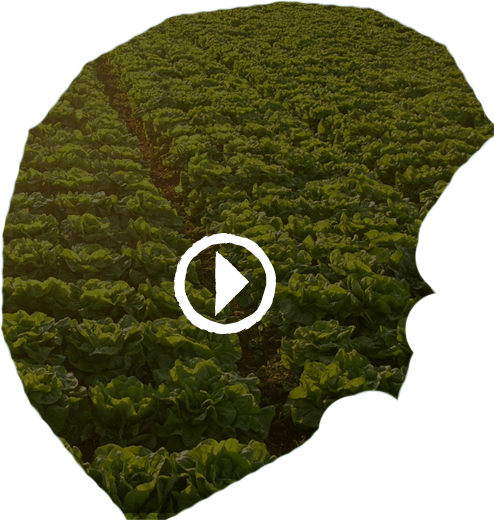
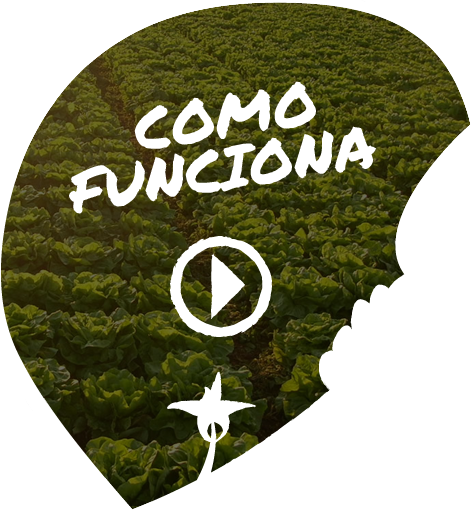
home

Changed region(s): [[0.0, 0.0, 1.0, 1.0]]

diff --git a/assets/css/main.css b/assets/css/main.css
@@ -1,1 +1,1 @@
-@import url(http://fonts.googleapis.com/css?family=Maven+Pro:400,500,700,900);html,body,div,span,applet,object,iframe,h1,h2,h3,h4,h5,h6,p,blockquote,pre,a,abbr,acronym,address,big,cite,code,del,dfn,em,img,ins,kbd,q,s,samp,small,strike,strong,sub,sup,tt,var,b,u,i,center,dl,dt,dd,ol,ul,li,fieldset,form,label,legend,table,caption,tbody,tfoot,thead,tr,th,td,article,aside,canvas,details,embed,figure,figcaption,footer,header,hgroup,menu,nav,output,ruby,section,summary,time,mark,audio,video{margin:0;padding:0;border:0;font:inherit;font-size:100%;vertical-align:baseline}html{line-height:1}ol,ul{list-style:none}table{border-collapse:collapse;border-spacing:0}caption,th,td{text-align:left;font-weight:normal;vertical-align:middle}q,blockquote{quotes:none}q:before,q:after,blockquote:before,blockquote:after{content:"";content:none}a img{border:none}article,aside,details,figcaption,figure,footer,header,hgroup,menu,nav,section,summary{display:block}@font-face{font-family:'permanent_markerregular';src:url("permanentmarker.eot");src:url("permanentmarker.eot?#iefix") format("embedded-opentype"),url("permanentmarker.woff") format("woff"),url("permanentmarker.ttf") format("truetype"),url("permanentmarker.svg#permanent_markerregular") format("svg");font-weight:normal;font-style:normal}@font-face{font-family:'sophieregular';src:url("sophie.eot");src:url("sophie.eot?#iefix") format("embedded-opentype"),url("sophie.woff") format("woff"),url("sophie.ttf") format("truetype"),url("sophie.svg#sophieregular") format("svg");font-weight:normal;font-style:normal}body{line-height:1.4;font-family:'Maven Pro', sans-serif;color:#444;margin:0;padding:0}#site{min-height:100%;width:1000px;margin:0 auto;position:relative}p{margin:0;font-size:0.83em}img{max-width:100%}h1,h2,h3,h4,h5,h6{font-weight:bold;margin:0 0 10px 0}h1{font-size:3.0em}h2{font-size:2.6em}h3{font-size:2.2em}h4{font-size:1.8em}h5{font-size:1.4em}h6{font-size:1.1em}a{text-decoration:none;color:#444}a:visited{color:#444}a:hover{color:#444}a:focus{color:#444}a:active{color:#444}.centralize{text-align:center}.hide_text{text-indent:-9999px;display:block}.nav li{display:inline-block}.nav b{font-weight:bold}label.error{color:#ff0000;font-size:0.7em;display:block;height:14px;margin-bottom:-20px}.l-container{max-width:960px;margin:0 auto}.l-row:before,.l-row:after,.cf:before,.cf:after{content:'';display:table}.l-row:after,.cf:after{clear:both}[class*=l-col]{-webkit-box-sizing:border-box;-moz-box-sizing:border-box;box-sizing:border-box;float:left;padding:5px 10px}.l-col1{width:8.33333%}.l-col2{width:16.66667%}.l-col3{width:25.0%}.l-col4{width:33.33333%}.l-col5{width:41.66667%}.l-col6{width:50.0%}.l-col7{width:58.33333%}.l-col8{width:66.66667%}.l-col9{width:75.0%}.l-col10{width:83.33333%}.l-col11{width:91.66667%}.l-col12{width:100.0%}.l-header .l-container{height:160px;text-align:center}.l-header .l-container .logo-interna{margin-top:40px}.l-main{position:relative}.l-login{width:960px;margin:0 auto}.l-login h2{font-family:'Permanent Marker', sans-serif}.l-login h1{margin:0 auto;text-align:center;font-size:2em}.l-login .bt-saiba-mais{bottom:50px;position:absolute;text-align:center;cursor:pointer;width:100px;margin-left:-50px;left:50%}.l-login #accordion{width:260px;margin:10px auto;text-align:center}.l-login p{text-align:center}.l-login .btcadastrar{cursor:pointer}.l-login .beneficios{margin:210px auto 0}.l-login .beneficios li{font-family:'Sophie', sans-serif;width:170px;-webkit-transform:rotate(-12deg);-moz-transform:rotate(-12deg);-ms-transform:rotate(-12deg);display:block;margin:0px 10px;float:left;text-align:center;font-size:1.45em;color:#58595b;line-height:24px}.l-login .beneficios h2{color:#ff921e;font-size:5.7em;-webkit-transform:rotate(-12deg);-moz-transform:rotate(-12deg);-ms-transform:rotate(-12deg);margin-left:100px}.l-login .beneficios ol{margin:40px 0 0 45px}.l-login .como-funciona{clear:both}body.index{background:url(../img/template/bg-home.png) center top no-repeat}.l-cadastrarperfil{width:960px;margin:0 auto;text-align:center}.l-cadastrarperfil form{margin:0 auto}.l-cadastrarperfil p{width:400px;margin:0 auto;line-height:1.4em}.l-cadastrarperfil input[type="text"]{width:250px}.l-cadastrarperfil header{margin-bottom:10px}.l-cadastrarperfil form p{margin-bottom:7px}.l-cadastrarperfil #map-canvas{margin-bottom:20px}.l-footer{height:30px;position:absolute;background-color:#ccc;width:1000px;padding-top:10px;bottom:0px;left:50%;margin-left:-500px}.l-footer .l-footer-bottom{text-align:center;margin:0 auto}.l-footer p{margin:2px 0}.l-perfil .fotoperfil{margin:10px 10px 0 0}.l-perfil #perfil-content{width:700px}.l-perfil p span{font-weight:bold;width:90px;text-align:left;margin-right:10px;display:block;float:left}.l-produtores #cultivo{width:290px}.l-produtores form{width:300px}.l-produtores #cidade{width:230px}.l-produtores #resultadoprodutores li img{margin:0 10px 0 0;float:left;display:block}.l-produtores #resultadoprodutores li{display:block;width:350px;height:150px;float:left;margin:10px 5px 0}.l-duvida-resultado .conteudoDuvidasResultado li{display:block;float:left;margin:5px 10px}.l-duvida-resultado .postnome{font-weight:bold}.l-duvida-resultado ul{overflow:auto}.l-duvida-resultado .bt-saibamais{display:block;float:right}.l-duvida-resultado #cadastrarDuvida{text-align:center}.l-duvida-resultado #cadastrarDuvida a{display:block;width:200px;height:15px;padding:7px;text-align:center;background-color:blue;margin:10px auto;font-size:0.75em;color:#fff}.l-duvida-resultado #paginacao{margin:5px auto;text-align:center;width:75px}.l-duvida-resultado #paginacao ul li{display:block;float:left;padding:5px}.l-duvida-exibicao .galeria-imagens{margin:5px 6px}.l-duvida-exibicao .comentario{padding:10px 0;border-bottom:dashed 1px grey;margin:5px 0}.l-duvida-exibicao p.titulo{font-size:1em;font-weight:bold}.l-painel ul#abas{height:40px;overflow:auto;border-bottom:1px solid black}.l-painel ul#abas li a{display:block;float:left;padding:5px;border:1px solid red;cursor:pointer}.l-painel #resultados ul{overflow:auto}.l-painel #resultados li{width:25%;display:block;float:left}.l-painel #notificacoes{overflow:auto;margin:10px 0}.l-painel #notificacoes li{width:31%;margin-right:2%;display:block;float:left}.l-painel #notificacoes li img{margin-right:5px}.l-painel #duvidas-recentes li{width:220px;display:block;float:left;margin:5px 10px}.l-painel #duvidas-recentes .postnome{font-weight:bold}.l-painel #duvidas-recentes ul{overflow:auto}.l-painel #duvidas-recentes .bt-saibamais{display:block;float:right}.l-duvida-inicial form{width:500px;margin:5px auto}.l-duvida-inicial input[type="text"]{width:400px;margin-right:10px}.l-duvida-inicial #conteudoDuvidas li{width:200px;display:block;float:left;margin:5px 10px}.l-duvida-inicial .postnome{font-weight:bold}.l-duvida-inicial ul{overflow:auto}.l-duvida-inicial .bt-saibamais{display:block;float:right}.l-duvida-inicial #cadastrarDuvida{text-align:center}.l-duvida-inicial #cadastrarDuvida a{display:block;width:200px;height:15px;padding:7px;text-align:center;background-color:blue;margin:10px auto;font-size:0.75em;color:#fff}.l-duvida-inicial #paginacao{margin:5px auto;text-align:center;width:75px}.l-duvida-inicial #paginacao ul li{display:block;float:left;padding:5px}.l-notificacoes #conteudoNotificacoes{overflow:auto;margin:10px 0}.l-notificacoes #conteudoNotificacoes li{width:31%;margin:1% 2% 1% 0;display:block;float:left}.l-notificacoes #conteudoNotificacoes li img{margin-right:5px}.l-graficos #plantacoes li{display:inline;cursor:pointer;margin:5px}.l-graficos .bt-vermais{display:block;float:right;padding:5px 10px;background-color:#f00}.l-sidebar{-webkit-box-sizing:border-box;-moz-box-sizing:border-box;box-sizing:border-box;height:603px;width:213px;background-image:url('fakepath/../../../assets/img/sprite-sd4e113779e.png');background-position:0 -114px;background-repeat:no-repeat;position:absolute;padding:20px}.l-sidebar .l-sidebar-top{position:relative;padding-top:30px}.l-sidebar .l-sidebar-top .round-img.foto-perfil{width:90px;height:90px;position:absolute;top:-69px;left:38px}.l-sidebar .l-sidebar-top .round-img.foto-perfil img{width:90px;height:90px;border-radius:50%;behavior:url(assets/css/suiting/pie.htc)}.l-sidebar .l-sidebar-top .round-img.foto-perfil::after{content:' ';display:block;position:absolute;top:-13px;left:-14px;height:114px;width:115px;background-image:url('fakepath/../../../assets/img/sprite-sd4e113779e.png');background-position:0 0;background-repeat:no-repeat}.l-sidebar .l-sidebar-top .content-perfil{text-align:center;padding-right:5px;color:#7a7460;font-family:'Sophie', sans-serif;margin-bottom:11px}.l-sidebar .l-sidebar-top .content-perfil .nome-perfil{font-family:'Permanent Marker', sans-serif;text-transform:uppercase;font-size:1.14em;letter-spacing:0.05em}.l-sidebar .l-sidebar-top .content-perfil .fazenda-perfil{font-size:1.30em}.l-sidebar .l-sidebar-top .content-perfil #location{font-size:1.07em;line-height:15px}.l-sidebar .l-sidebar-top .content-perfil #degreesCelsius{line-height:40px;font-size:1.85em}.clima-01d{background-color:#FFFAEA}.clima-01n{background-color:#F3E0FF}.clima-02d{background-color:#DDFAFF}.clima-02n{background-color:#EAE9EE}.clima-03d{background-color:#DBDBDB}.clima-03n{background-color:#DBDBDB}.clima-04d{background-color:#CFCFCF}.clima-04n{background-color:#CFCFCF}.clima-09d{background-color:#757588}.clima-09n{background-color:#757588}.clima-10d{background-color:#CACACA}.clima-10n{background-color:#D3CDD8}.clima-11d{background-color:#CFBABA}.clima-11n{background-color:#DACAD0}.clima-13d{background-color:#fff}.clima-13n{background-color:#fff}.clima-13d{background-color:#DBDBDB}.clima-13n{background-color:#DBDBDB}.l-content{-webkit-box-sizing:border-box;-moz-box-sizing:border-box;box-sizing:border-box;width:783px;padding:0px 40px 0px 40px;margin:0px 0px 0px 213px}/*! Suiting v1.00.0 | (c) 2014, 2014 | http://browserhacks.com/ */
+@import url(http://fonts.googleapis.com/css?family=Maven+Pro:400,500,700,900);html,body,div,span,applet,object,iframe,h1,h2,h3,h4,h5,h6,p,blockquote,pre,a,abbr,acronym,address,big,cite,code,del,dfn,em,img,ins,kbd,q,s,samp,small,strike,strong,sub,sup,tt,var,b,u,i,center,dl,dt,dd,ol,ul,li,fieldset,form,label,legend,table,caption,tbody,tfoot,thead,tr,th,td,article,aside,canvas,details,embed,figure,figcaption,footer,header,hgroup,menu,nav,output,ruby,section,summary,time,mark,audio,video{margin:0;padding:0;border:0;font:inherit;font-size:100%;vertical-align:baseline}html{line-height:1}ol,ul{list-style:none}table{border-collapse:collapse;border-spacing:0}caption,th,td{text-align:left;font-weight:normal;vertical-align:middle}q,blockquote{quotes:none}q:before,q:after,blockquote:before,blockquote:after{content:"";content:none}a img{border:none}article,aside,details,figcaption,figure,footer,header,hgroup,menu,nav,section,summary{display:block}@font-face{font-family:'permanent_markerregular';src:url("permanentmarker.eot");src:url("permanentmarker.eot?#iefix") format("embedded-opentype"),url("permanentmarker.woff") format("woff"),url("permanentmarker.ttf") format("truetype"),url("permanentmarker.svg#permanent_markerregular") format("svg");font-weight:normal;font-style:normal}@font-face{font-family:'sophieregular';src:url("sophie.eot");src:url("sophie.eot?#iefix") format("embedded-opentype"),url("sophie.woff") format("woff"),url("sophie.ttf") format("truetype"),url("sophie.svg#sophieregular") format("svg");font-weight:normal;font-style:normal}body{line-height:1.4;font-family:'Maven Pro', sans-serif;color:#444;margin:0;padding:0}#site{min-height:100%;width:1000px;margin:0 auto;position:relative}p{margin:0;font-size:0.83em}img{max-width:100%}h1,h2,h3,h4,h5,h6{font-weight:bold;margin:0 0 10px 0}h1{font-size:3.0em}h2{font-size:2.6em}h3{font-size:2.2em}h4{font-size:1.8em}h5{font-size:1.4em}h6{font-size:1.1em}a{text-decoration:none;color:#444}a:visited{color:#444}a:hover{color:#444}a:focus{color:#444}a:active{color:#444}.centralize{text-align:center}.hide_text{text-indent:-9999px;display:block}.nav li{display:inline-block}.nav b{font-weight:bold}label.error{color:#ff0000;font-size:0.7em;display:block;height:14px;margin-bottom:-20px}.l-container{max-width:960px;margin:0 auto}.l-row:before,.l-row:after,.cf:before,.cf:after{content:'';display:table}.l-row:after,.cf:after{clear:both}[class*=l-col]{-webkit-box-sizing:border-box;-moz-box-sizing:border-box;box-sizing:border-box;float:left;padding:5px 10px}.l-col1{width:8.33333%}.l-col2{width:16.66667%}.l-col3{width:25.0%}.l-col4{width:33.33333%}.l-col5{width:41.66667%}.l-col6{width:50.0%}.l-col7{width:58.33333%}.l-col8{width:66.66667%}.l-col9{width:75.0%}.l-col10{width:83.33333%}.l-col11{width:91.66667%}.l-col12{width:100.0%}.l-header .l-container{height:160px;text-align:center}.l-header .l-container .logo-interna{margin-top:40px}.l-main{position:relative}.l-login{width:960px;margin:0 auto}.l-login h2{font-family:'Permanent Marker', sans-serif}.l-login h1{margin:0 auto 20px;width:421px;height:108px}.l-login #accordion{width:260px;margin:10px auto;text-align:center}.l-login p{text-align:center}.l-login .btcadastrar{cursor:pointer}.l-login .beneficios{margin:210px auto 0;height:650px}.l-login .beneficios li{font-family:'Sophie', sans-serif;width:170px;-webkit-transform:rotate(-12deg);-moz-transform:rotate(-12deg);-ms-transform:rotate(-12deg);display:block;margin:0px 10px;float:left;text-align:center;font-size:1.45em;color:#58595b;line-height:24px}.l-login .beneficios h2{color:#ff921e;font-size:5.6em;-webkit-transform:rotate(-12deg);-moz-transform:rotate(-12deg);-ms-transform:rotate(-12deg);margin-left:100px}.l-login .beneficios ol{margin:40px 0 0 45px}.l-login .como-funciona{clear:both;height:510px;margin-left:-21px;margin-top:5px}.l-login .como-funciona h2{color:#fff;font-size:4.2em;width:310px;-webkit-transform:rotate(-12deg);-moz-transform:rotate(-12deg);-ms-transform:rotate(-12deg)}.l-login .sobre-projeto{right:30px;float:right;width:470px;margin-top:-70px}.l-login .sobre-projeto h2{color:#ff921e;font-size:5.6em;width:380px;text-align:right;line-height:80px;clear:both}.l-login .sobre-projeto h2 span{margin-right:-70px}.l-login .sobre-projeto p{width:360px;text-align:center;float:left;margin:5px 0;color:#58595b}.l-login .sobre-projeto p span{font-family:'Sophie', sans-serif;font-size:1.45em;color:#58595b;line-height:24px}.l-login .sobre-projeto .login{height:650px;width:960px;margin:0 auto;clear:both}.l-login .sobre-projeto .login h2{color:#8e9924;text-align:center;font-size:3.4em;clear:both}body.index{background:url(../img/template/bg-home.png) center top no-repeat}.l-cadastrarperfil{width:960px;margin:0 auto;text-align:center}.l-cadastrarperfil form{margin:0 auto}.l-cadastrarperfil p{width:400px;margin:0 auto;line-height:1.4em}.l-cadastrarperfil input[type="text"]{width:250px}.l-cadastrarperfil header{margin-bottom:10px}.l-cadastrarperfil form p{margin-bottom:7px}.l-cadastrarperfil #map-canvas{margin-bottom:20px}.l-footer{height:30px;position:absolute;background-color:#ccc;width:1000px;padding-top:10px;bottom:0px;left:50%;margin-left:-500px}.l-footer .l-footer-bottom{text-align:center;margin:0 auto}.l-footer p{margin:2px 0}.l-perfil .fotoperfil{margin:10px 10px 0 0}.l-perfil #perfil-content{width:700px}.l-perfil p span{font-weight:bold;width:90px;text-align:left;margin-right:10px;display:block;float:left}.l-produtores #cultivo{width:290px}.l-produtores form{width:300px}.l-produtores #cidade{width:230px}.l-produtores #resultadoprodutores li img{margin:0 10px 0 0;float:left;display:block}.l-produtores #resultadoprodutores li{display:block;width:350px;height:150px;float:left;margin:10px 5px 0}.l-duvida-resultado .conteudoDuvidasResultado li{display:block;float:left;margin:5px 10px}.l-duvida-resultado .postnome{font-weight:bold}.l-duvida-resultado ul{overflow:auto}.l-duvida-resultado .bt-saibamais{display:block;float:right}.l-duvida-resultado #cadastrarDuvida{text-align:center}.l-duvida-resultado #cadastrarDuvida a{display:block;width:200px;height:15px;padding:7px;text-align:center;background-color:blue;margin:10px auto;font-size:0.75em;color:#fff}.l-duvida-resultado #paginacao{margin:5px auto;text-align:center;width:75px}.l-duvida-resultado #paginacao ul li{display:block;float:left;padding:5px}.l-duvida-exibicao .galeria-imagens{margin:5px 6px}.l-duvida-exibicao .comentario{padding:10px 0;border-bottom:dashed 1px grey;margin:5px 0}.l-duvida-exibicao p.titulo{font-size:1em;font-weight:bold}.l-painel ul#abas{height:40px;overflow:auto;border-bottom:1px solid black}.l-painel ul#abas li a{display:block;float:left;padding:5px;border:1px solid red;cursor:pointer}.l-painel #resultados ul{overflow:auto}.l-painel #resultados li{width:25%;display:block;float:left}.l-painel #notificacoes{overflow:auto;margin:10px 0}.l-painel #notificacoes li{width:31%;margin-right:2%;display:block;float:left}.l-painel #notificacoes li img{margin-right:5px}.l-painel #duvidas-recentes li{width:220px;display:block;float:left;margin:5px 10px}.l-painel #duvidas-recentes .postnome{font-weight:bold}.l-painel #duvidas-recentes ul{overflow:auto}.l-painel #duvidas-recentes .bt-saibamais{display:block;float:right}.l-duvida-inicial form{width:500px;margin:5px auto}.l-duvida-inicial input[type="text"]{width:400px;margin-right:10px}.l-duvida-inicial #conteudoDuvidas li{width:200px;display:block;float:left;margin:5px 10px}.l-duvida-inicial .postnome{font-weight:bold}.l-duvida-inicial ul{overflow:auto}.l-duvida-inicial .bt-saibamais{display:block;float:right}.l-duvida-inicial #cadastrarDuvida{text-align:center}.l-duvida-inicial #cadastrarDuvida a{display:block;width:200px;height:15px;padding:7px;text-align:center;background-color:blue;margin:10px auto;font-size:0.75em;color:#fff}.l-duvida-inicial #paginacao{margin:5px auto;text-align:center;width:75px}.l-duvida-inicial #paginacao ul li{display:block;float:left;padding:5px}.l-notificacoes #conteudoNotificacoes{overflow:auto;margin:10px 0}.l-notificacoes #conteudoNotificacoes li{width:31%;margin:1% 2% 1% 0;display:block;float:left}.l-notificacoes #conteudoNotificacoes li img{margin-right:5px}.l-graficos #plantacoes li{display:inline;cursor:pointer;margin:5px}.l-graficos .bt-vermais{display:block;float:right;padding:5px 10px;background-color:#f00}.l-sidebar{-webkit-box-sizing:border-box;-moz-box-sizing:border-box;box-sizing:border-box;height:603px;width:213px;background-image:url('fakepath/../../../assets/img/sprite-sd4e113779e.png');background-position:0 -114px;background-repeat:no-repeat;position:absolute;padding:20px}.l-sidebar .l-sidebar-top{position:relative;padding-top:30px}.l-sidebar .l-sidebar-top .round-img.foto-perfil{width:90px;height:90px;position:absolute;top:-69px;left:38px}.l-sidebar .l-sidebar-top .round-img.foto-perfil img{width:90px;height:90px;border-radius:50%;behavior:url(assets/css/suiting/pie.htc)}.l-sidebar .l-sidebar-top .round-img.foto-perfil::after{content:' ';display:block;position:absolute;top:-13px;left:-14px;height:114px;width:115px;background-image:url('fakepath/../../../assets/img/sprite-sd4e113779e.png');background-position:0 0;background-repeat:no-repeat}.l-sidebar .l-sidebar-top .content-perfil{text-align:center;padding-right:5px;color:#7a7460;font-family:'Sophie', sans-serif;margin-bottom:11px}.l-sidebar .l-sidebar-top .content-perfil .nome-perfil{font-family:'Permanent Marker', sans-serif;text-transform:uppercase;font-size:1.14em;letter-spacing:0.05em}.l-sidebar .l-sidebar-top .content-perfil .fazenda-perfil{font-size:1.30em}.l-sidebar .l-sidebar-top .content-perfil #location{font-size:1.07em;line-height:15px}.l-sidebar .l-sidebar-top .content-perfil #degreesCelsius{line-height:40px;font-size:1.85em}.clima-01d{background-color:#FFFAEA}.clima-01n{background-color:#F3E0FF}.clima-02d{background-color:#DDFAFF}.clima-02n{background-color:#EAE9EE}.clima-03d{background-color:#DBDBDB}.clima-03n{background-color:#DBDBDB}.clima-04d{background-color:#CFCFCF}.clima-04n{background-color:#CFCFCF}.clima-09d{background-color:#757588}.clima-09n{background-color:#757588}.clima-10d{background-color:#CACACA}.clima-10n{background-color:#D3CDD8}.clima-11d{background-color:#CFBABA}.clima-11n{background-color:#DACAD0}.clima-13d{background-color:#fff}.clima-13n{background-color:#fff}.clima-13d{background-color:#DBDBDB}.clima-13n{background-color:#DBDBDB}.l-content{-webkit-box-sizing:border-box;-moz-box-sizing:border-box;box-sizing:border-box;width:783px;padding:0px 40px 0px 40px;margin:0px 0px 0px 213px}/*! Suiting v1.00.0 | (c) 2014, 2014 | http://browserhacks.com/ */

diff --git a/assets/sass/modules/_login.scss b/assets/sass/modules/_login.scss
@@ -6,18 +6,9 @@
 		font-family: 'Permanent Marker', sans-serif;
 	}
 	h1 {
-		margin:0 auto;
-		text-align:center;
-		font-size:2em;
-	}
-	.bt-saiba-mais{
-		bottom:50px;
-		position:absolute;
-		text-align:center;
-		cursor:pointer;
-		width:100px;
-		margin-left:-50px;
-		left:50%;
+		margin:0 auto 20px;
+		width:421px;
+		height:108px;
 	}
 	#accordion{
 		width:260px;
@@ -33,7 +24,8 @@
 	}
 
 	.beneficios{
-		margin:210px auto 0;;
+		margin:210px auto 0;
+		height:650px;
 
 		li{
 			font-family: 'Sophie', sans-serif;
@@ -46,27 +38,82 @@
 			float: left;
 			text-align:center;
 			font-size:1.45em;
-			color:#58595b;
+			color: #58595b;
 			line-height:24px;
-	}
+		}
 		h2{
 			color:#ff921e;
-			font-size:5.7em;
+			font-size:5.6em;
 			-webkit-transform: rotate(-12deg);
 			-moz-transform: rotate(-12deg);
 			-ms-transform: rotate(-12deg);
-			margin-left:100px
+			margin-left:100px;
 		}
 
 		ol{
 			margin:40px 0 0 45px;
-
-			
 		}
 	}
 	.como-funciona{
 		clear:both;
+		height:510px;
+		margin-left:-21px;
+		margin-top:5px;
+		
+		h2{
+			color: #fff;
+			font-size: 4.2em;
+			width:310px;
+			-webkit-transform: rotate(-12deg);
+			-moz-transform: rotate(-12deg);
+			-ms-transform: rotate(-12deg);
+		}
+	
 	}
+	.sobre-projeto{
+		right:30px;
+		float:right;
+		width:470px;
+		margin-top:-70px;
+		h2{
+			color:#ff921e;
+			font-size:5.6em;
+			width:380px;
+			text-align:right;
+			line-height:80px;
+			clear:both;
+			span{
+				margin-right:-70px;
+			}
+		}
+		p{
+			width:360px;
+			text-align:center;
+			float:left;
+			margin:5px 0;
+			color:#58595b;
+			span{
+				font-family: 'Sophie', sans-serif;
+				font-size:1.45em;
+				color: #58595b;
+				line-height:24px;
+			}
+		}
+		.login {
+			height:650px;
+			width:960px;
+			margin:0 auto;
+			clear:both;
+			h2{
+				color:#8e9924;
+				text-align:center;
+				font-size:3.4em;
+				clear:both;
+			}
+		}
+		
+
+	}	
 
 }
 body.index{background: url(../img/template/bg-home.png) center top no-repeat;}

diff --git a/index.php b/index.php
@@ -73,7 +73,7 @@ if($sucesso == "aprovado") {
 						
 						
 						<section class="beneficios">
-							<h2>Benefícios:</h2>
+							<h2>Benefícios</h2>
 							<ol>
 								<li style="margin-top:65px;">Conversar com outros produtores que possuem o mesmo orgulho e prazer em cultivar alimentos saudáveis.<br><img src="assets/img/template/ondinhas.png" alt="ornamento" /></li>
 								<li style="margin-top:95px;"><img src="assets/img/template/ondinhas.png" alt="ornamento" /><br>
@@ -84,9 +84,15 @@ if($sucesso == "aprovado") {
 							</ol>
 						</section><!-- .beneficios -->
 						<section class="como-funciona">
-							<a id="videohome" href="https://www.youtube.com/watch?v=YJKESYJ4QW8?iframe">Como blevers</a>
-							
-						</section><!-- .como-funciona -->
+							<!--<h2>Como Funciona</h2>-->
+                            
+						
+							<a class="videohome"><img src="assets/img/template/como-funciona.png" border="0" usemap="#Map" alt="Sobre o Projeto" /></a>
+							<map name="Map">
+	                          <area shape="poly" class="videohome" coords="34,137,109,47,195,5,281,0,365,11,400,25,429,44,446,63,460,89,469,122,440,152,410,193,394,231,404,272,330,385,242,453,134,506,51,402,12,341,-3,253" href="https://www.youtube.com/watch?v=YJKESYJ4QW8?iframe">
+	                        </map>
+                        </section>
+						<!-- .como-funciona -->
 						<!--<section class="contato">
 							<h2>Contato</h2>
 							<p>Ficou interessado ou quer saber mais sobre este projeto? Envie-nos uma mensagem respondendo ao formulário abaixo.</p>
@@ -101,12 +107,12 @@ if($sucesso == "aprovado") {
 							</form>
 						</section> contato-->
 						<section class="sobre-projeto">
-							<h2>Sobre o Projeto:</h2>
-							<p>Com o objetivo de auxiliar produtores orgânicos em suas dúvidas e dificuldades cotidianas relacionadas a plantação, surgiu o projeto Dente de Leão. Nele você poderá trocar informações e conhecimentos com pessoas diretamente relacionadas às plantações e que possam ter passado pelas mesmas situações. A sabedoria que só se adquire na prática está aqui.</p>
+							<h2>Sobre o <br><span>Projeto</span></h2>
+							<p>Com o objetivo de auxiliar produtores orgânicos em suas dúvidas e dificuldades cotidianas relacionadas a plantação, surgiu o projeto Dente de Leão. </p><p><span>Nele você poderá trocar informações e conhecimentos com pessoas diretamente relacionadas às plantações e que possam ter passado pelas mesmas situações. A sabedoria que só se adquire na prática está aqui. <br><img src="assets/img/template/ondinhas2.png" alt="ornamento" /></span></p>
 						</section><!-- .sobre-projeto -->
 						<section class="login">
-							<header><h1><img src ="assets/img/template/logo-home.png" alt="Dente de Leão" border="none"></h1>
-							<h2>Cultive ideias. Colha conhecimento.</h2></header>
+							<h1><img src ="assets/img/template/logo-home.png" alt="Dente de Leão" border="none" /></h1>
+							<h2>Cultive ideias. Colha conhecimento.</h2>
 								<div id="accordion">
 									<a class="btcadastrar">Cadastrar</a>
 									<form id="formCadastroUsuario" method="post" action="backend/envios/enviarCadastroUsuario.php" style="display:none;">
@@ -152,7 +158,7 @@ if($sucesso == "aprovado") {
 			
 								</form>
 							</div><!--Div reenvio de senha-->
-						</section>
+						</section><!-- .login -->
 					
 				</div><!-- .l-row -->
 
@@ -186,7 +192,7 @@ if($sucesso == "aprovado") {
 			'titleShow'		: false,
 		});
 
-		$("#videohome").click(function() {
+		$(".videohome").click(function() {
 			$.fancybox({
 			'padding'		: 0,
 			'autoScale'		: false,
